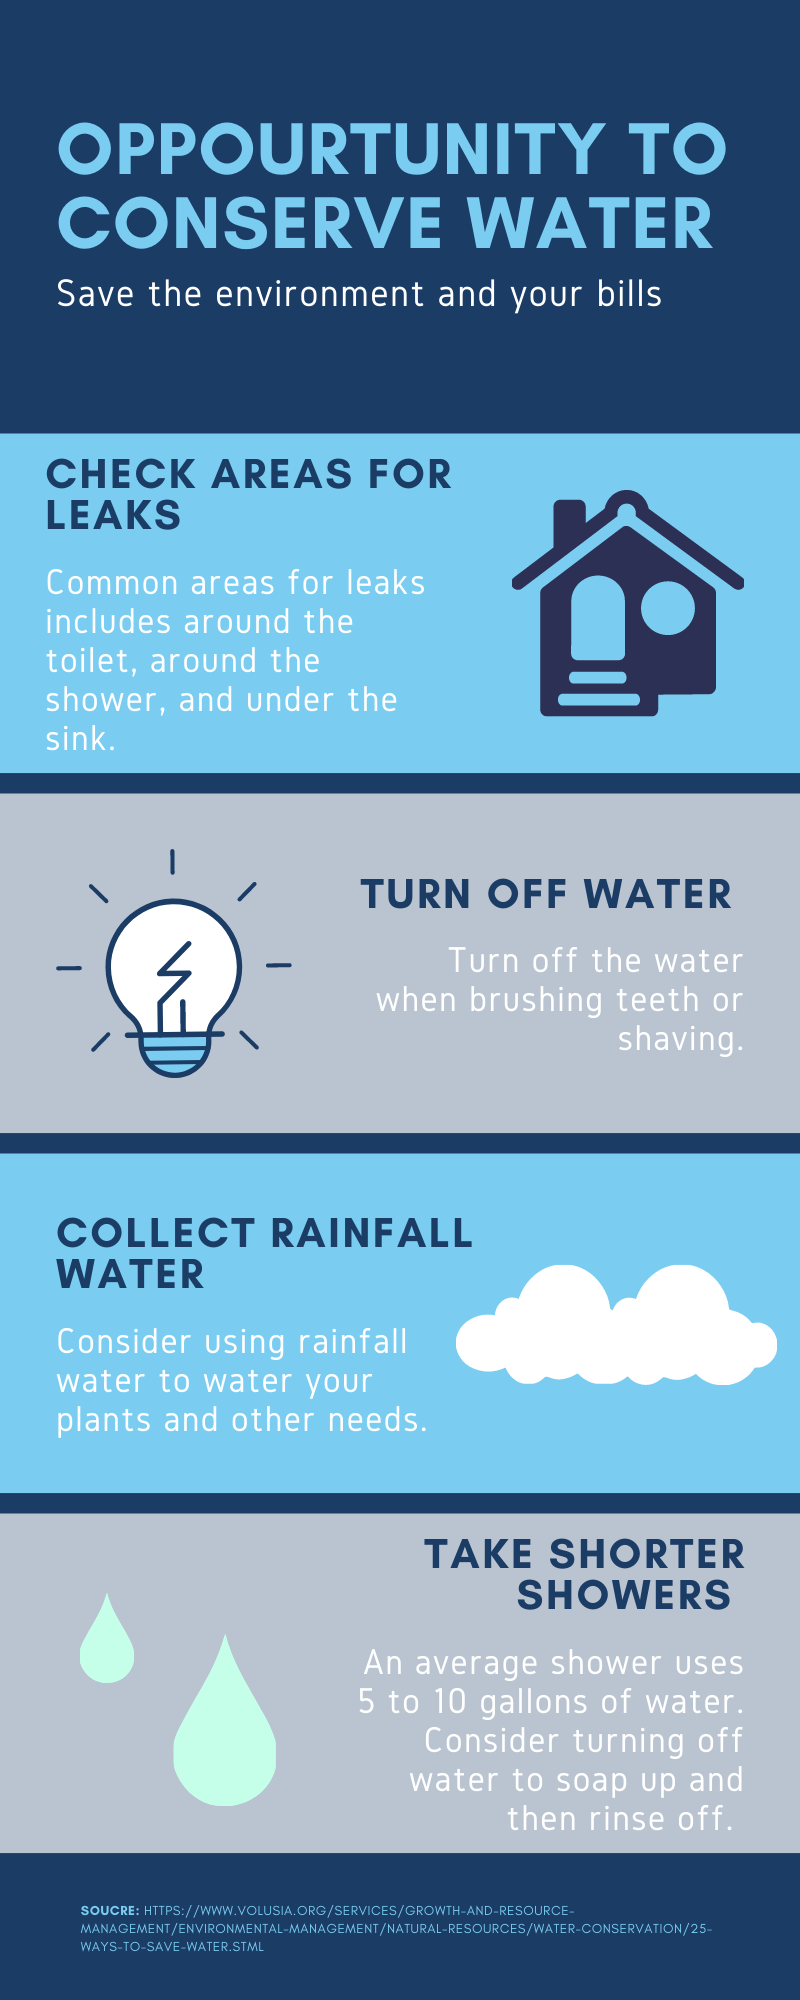
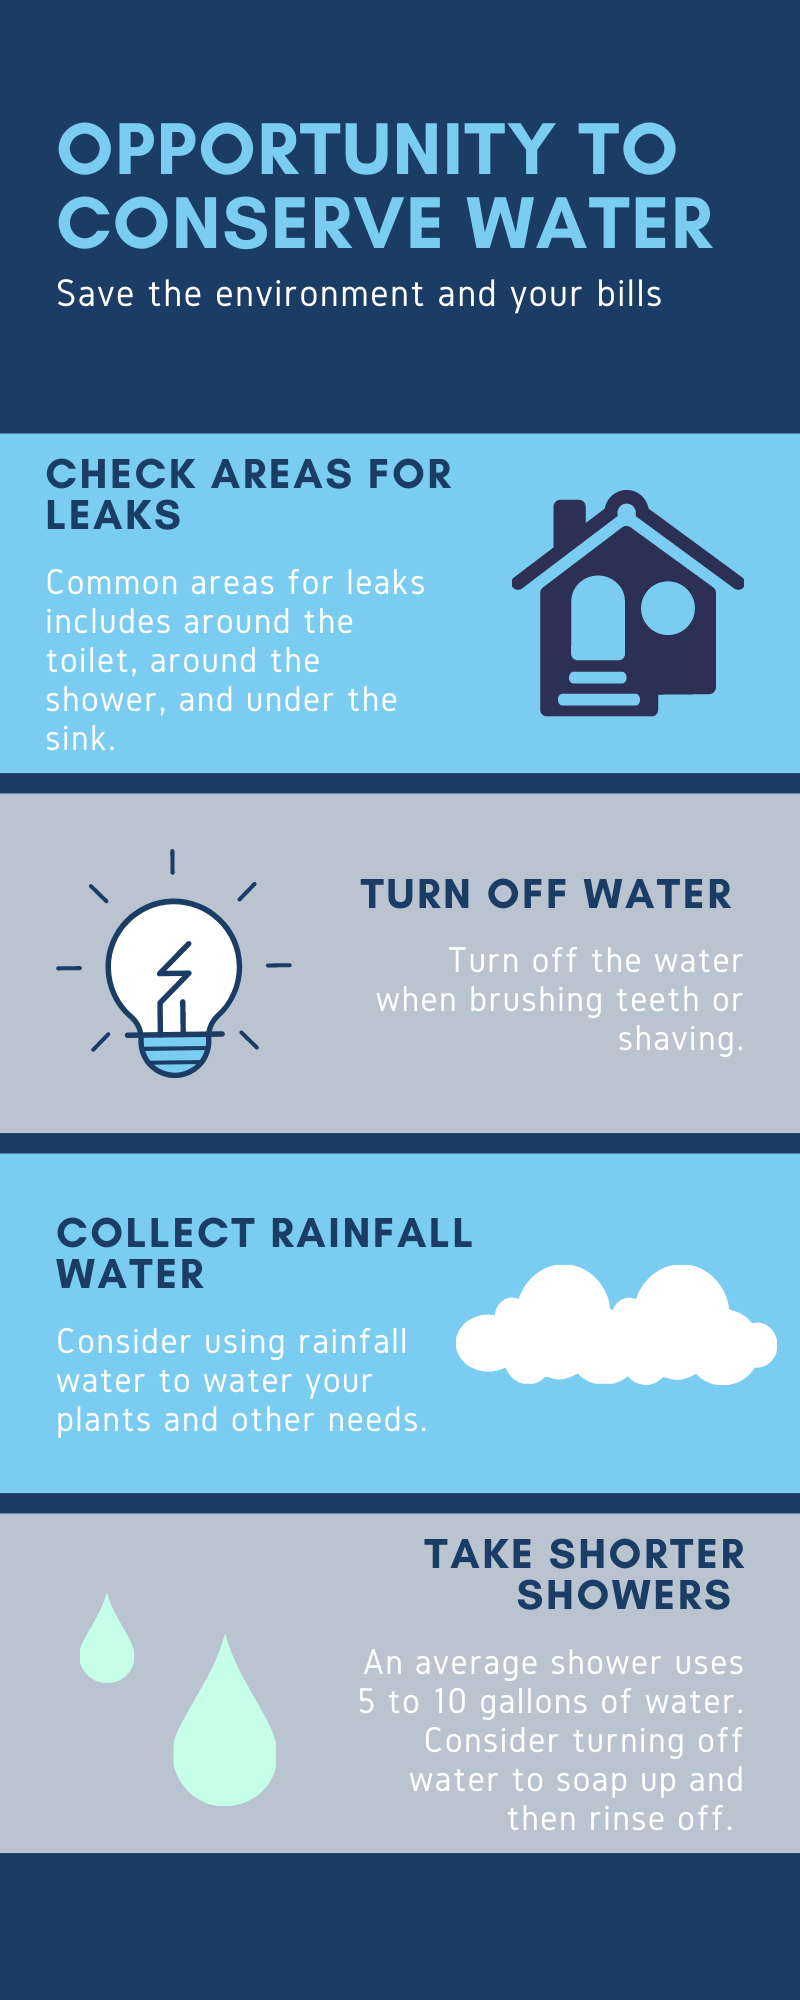
fix spelling, extract sources

Changed region(s): [[0.3125, 0.062, 0.9062, 0.093], [0.0938, 0.961, 0.3125, 0.992]]

diff --git a/content/conservation.html b/content/conservation.html
@@ -30,6 +30,12 @@
 
       <img src="Alan-2.png" class="info_tips"/>
 
+
+      <div class="sources">
+        <a href="https://www.volusia.org/services/growth-and-resource-management/environmental-management/natural-resources/water-conservation/25-ways-to-save-water.stml">https://www.volusia.org/services/growth-and-resource-management/environmental-management/natural-resources/water-conservation/25-ways-to-save-water.stml</a>
+        <br />
+        <a href="https://www.nature.org/en-us/about-us/where-we-work/united-states/indiana/stories-in-indiana/watersheds-101/">https://www.nature.org/en-us/about-us/where-we-work/united-states/indiana/stories-in-indiana/watersheds-101/</a>
+      </div>
     </div>
   </div>
 

diff --git a/content/precipitation.html b/content/precipitation.html
@@ -28,6 +28,10 @@
 
       <img src="Haider.png" class="info_rainfall"/>
 
+      <div class="sources">
+        <a href="http://www.washington-dc.climatemps.com/precipitation.php">http://www.washington-dc.climatemps.com/precipitation.php</a>
+      </div>
+
     </div>
   </div>
 

diff --git a/content/index.html b/content/index.html
@@ -26,6 +26,7 @@
 
   <div class="wrapper">
     <div class="container">
+      <!-- add a cool picture -->
       <h1>Welcome to Hyattsville's Watershed Implementation Plan</h1>
 
       <div class="proj_intro">
